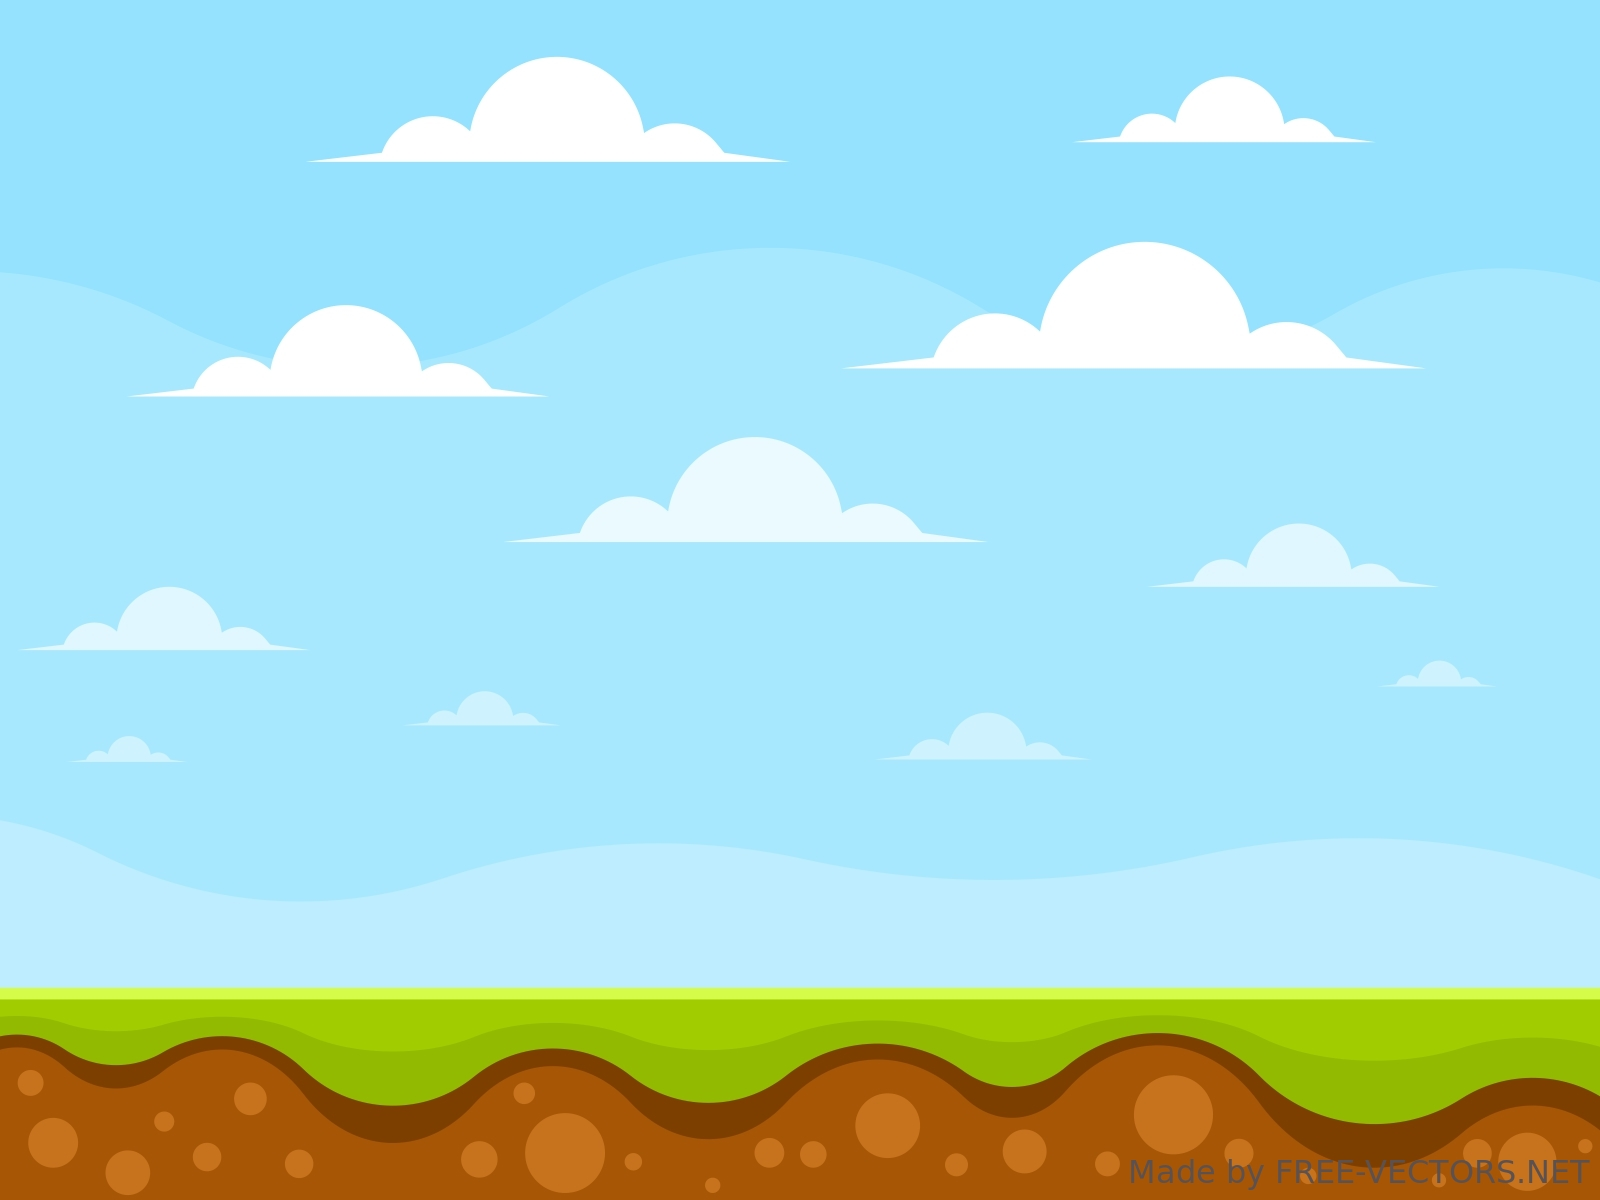
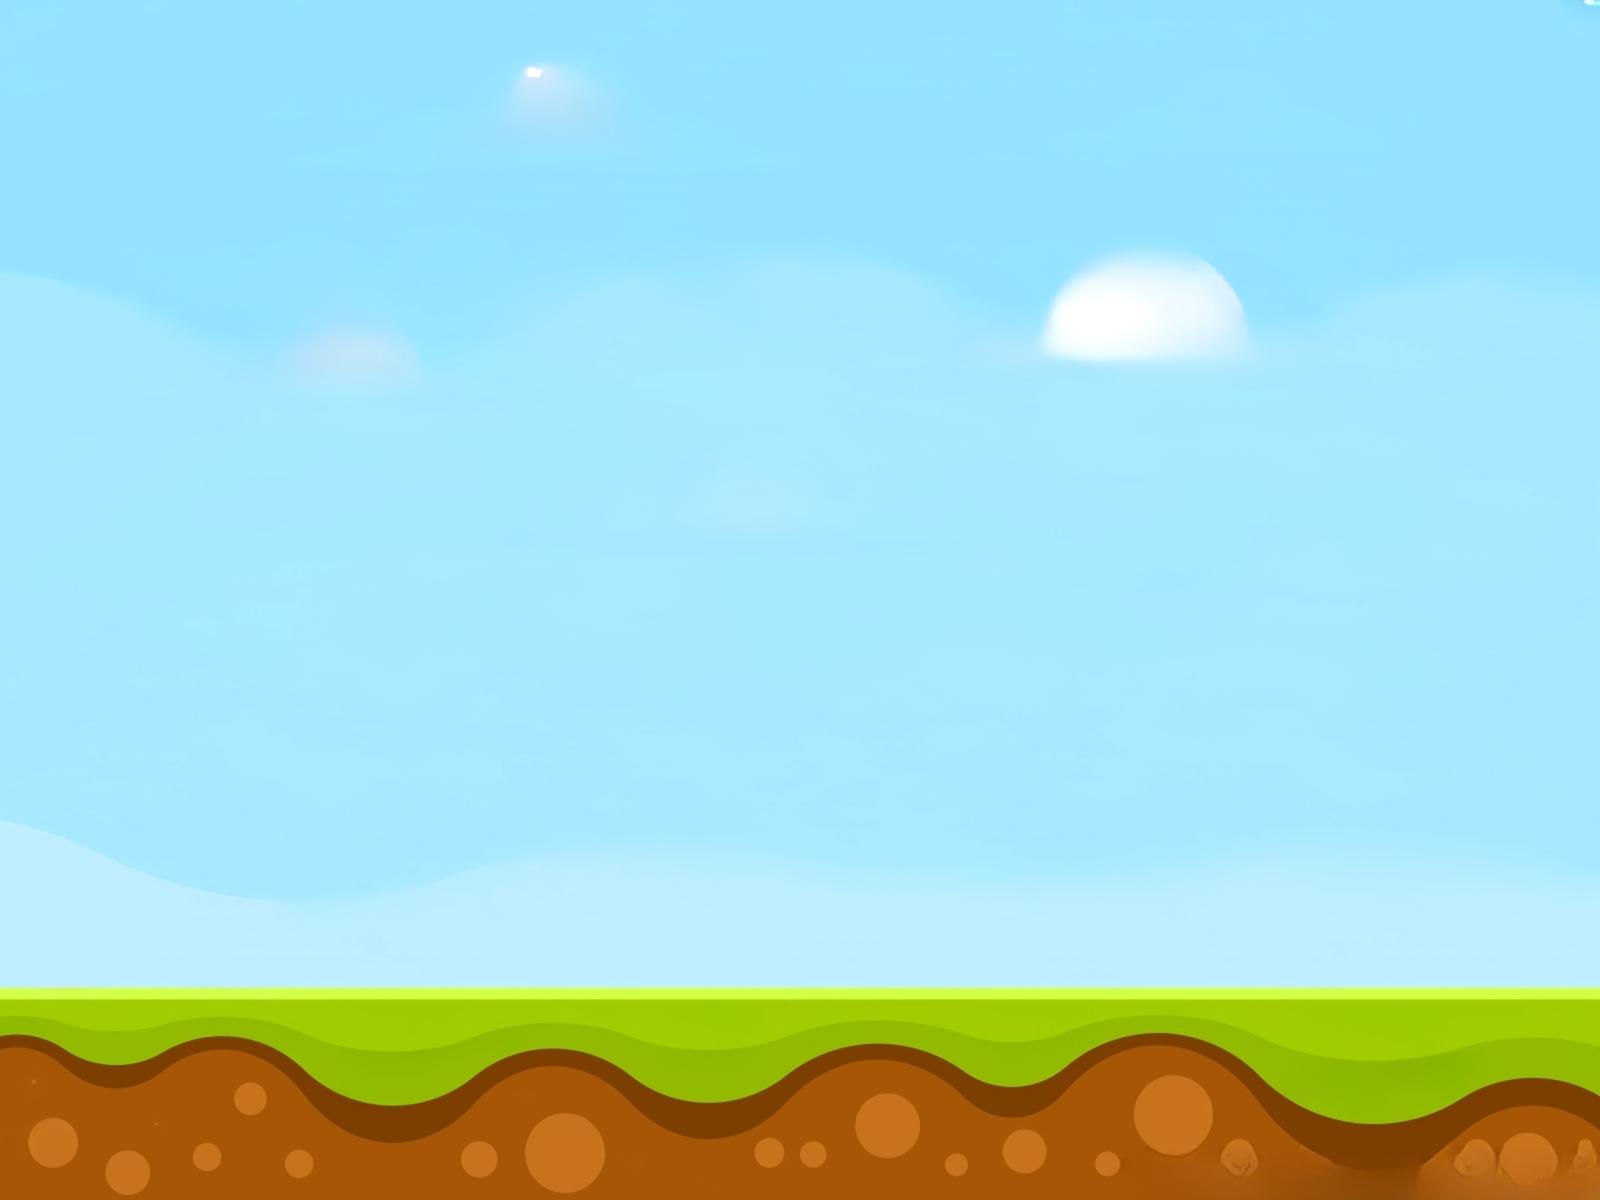
Added Instructions/End window states and score/highScore logic
* Added Instruction/End windows and score/highScore logic

* PR commit

diff --git a/src/Game.java b/src/Game.java
@@ -12,6 +12,8 @@ public class Game implements KeyListener, ActionListener {
     private ArrayList<Acorn> projectiles;
     private int gameState;
     private int score;
+    private int scoreTimer;
+    private int highScore;
     private static final int SLEEP_TIME = 10;
     private boolean isGameOver;
     private int obstacleSpawnTimer;
@@ -49,6 +51,14 @@ public class Game implements KeyListener, ActionListener {
         this.gameState = gameState;
     }
 
+    public int getScore() {
+        return score;
+    }
+
+    public int getHighScore() {
+        return highScore;
+    }
+
     public ArrayList<Obstacle> getObstacles() {
         return obstacles;
     }
@@ -58,14 +68,28 @@ public class Game implements KeyListener, ActionListener {
     }
 
     public int getRandomSpawnTime() {
-        // Obstacle spawns every 1.5 to 3 seconds randomly
-        return 150 + (int)(Math.random() * 151);
+        // TODO: have spawn time gradually increase as the game goes on to increase difficulty
+        // Obstacle spawns every 1 to 2 seconds randomly
+        return 100 + (int)(Math.random() * 101);
     }
 
     public void actionPerformed(ActionEvent e) {
-        // TODO
-        player.move();
+        if (gameState == STATE_MAIN_GROUND) {
+            actionPerformedGround();
+        } else if (gameState == STATE_MAIN_FLYING) {
+            // TODO: Implement flying state
+        }
+        window.repaint();
+    }
 
+    public void actionPerformedGround() {
+        player.move();
+        scoreTimer++;
+        // Increment score every 0.1 seconds
+        if (scoreTimer >= 10) {
+            score++;
+            scoreTimer = 0;
+        }
         obstacleSpawnTimer++;
         if (obstacleSpawnTimer >= nextObstacleSpawnTime) {
             spawnObstacle();
@@ -80,7 +104,6 @@ public class Game implements KeyListener, ActionListener {
                 // Account for the fact that removing an element would skip over an index
                 i--;
             }
-            checkGameOver();
         }
 
         for (int i = 0; i < projectiles.size(); i++){
@@ -91,7 +114,7 @@ public class Game implements KeyListener, ActionListener {
                 i--;
             }
         }
-        window.repaint();
+        checkGameOver();
     }
 
     // Return player
@@ -100,21 +123,32 @@ public class Game implements KeyListener, ActionListener {
     }
     // Jump button
     public void keyPressed(KeyEvent e){
-        switch(e.getKeyCode()){
-            case KeyEvent.VK_UP:
-                player.jump();
-                window.repaint();
-                break;
+        if (gameState == STATE_INSTR) {
+            if (e.getKeyCode() == KeyEvent.VK_ENTER) {
+                gameState = STATE_MAIN_GROUND;
+            }
+        } else if (gameState == STATE_MAIN_GROUND) {
+            switch (e.getKeyCode()) {
+                case KeyEvent.VK_UP:
+                    player.jump();
+                    window.repaint();
+                    break;
 
-            case KeyEvent.VK_DOWN:
-                player.duck();
-                window.repaint();
-                break;
+                case KeyEvent.VK_DOWN:
+                    player.duck();
+                    window.repaint();
+                    break;
 
-            case KeyEvent.VK_SPACE:
-                projectiles.add(player.fireAcorn());
-                window.repaint();
-                break;
+                case KeyEvent.VK_SPACE:
+                    projectiles.add(player.fireAcorn());
+                    window.repaint();
+                    break;
+            }
+        } else if (gameState == STATE_END) {
+            if (e.getKeyCode() == KeyEvent.VK_R) {
+                // NOTE: restartGame() isn't completely done yet
+                restartGame();
+            }
         }
         window.repaint();
     }
@@ -129,10 +163,18 @@ public class Game implements KeyListener, ActionListener {
     }
 
     public void keyTyped(KeyEvent e){
-
+        // TODO: remove if unused
     }
     public void restartGame() {
-        // TODO
+        // TODO: Complete once highScore and score logic implemented
+        player = new Player(window);
+        obstacles.clear();
+        projectiles.clear();
+        score = 0;
+        scoreTimer = 0;
+        obstacleSpawnTimer = 0;
+        nextObstacleSpawnTime = getRandomSpawnTime();
+        gameState = STATE_MAIN_GROUND;
     }
 
     public boolean checkCollisions() {
@@ -146,8 +188,7 @@ public class Game implements KeyListener, ActionListener {
     }
 
     public void play() {
-        // TODO
-        gameState = STATE_MAIN_GROUND;
+        gameState = STATE_INSTR;
         window.repaint();
     }
 
@@ -156,8 +197,10 @@ public class Game implements KeyListener, ActionListener {
     }
 
     public void checkGameOver() {
-        // TODO
         if (checkCollisions()) {
+            if (score > highScore) {
+                highScore = score;
+            }
             gameState = STATE_END;
         }
     }

diff --git a/src/GameView.java b/src/GameView.java
@@ -2,7 +2,6 @@ import javax.swing.*;
 import java.awt.*;
 import java.awt.event.KeyEvent;
 import java.awt.image.BufferStrategy;
-import java.util.ArrayList;
 
 public class GameView extends JFrame{
     private Game backend;
@@ -29,16 +28,28 @@ public class GameView extends JFrame{
     }
 
     public void drawInstructions(Graphics g) {
-        // TODO
+        // TODO: If time permits, replace instructions window with one designed on Canva
+        g.setColor(Color.WHITE);
+        g.fillRect(0, 0 , WINDOW_WIDTH, WINDOW_HEIGHT);
+        g.setColor(Color.BLACK);
+        g.setFont(new Font("Arial", Font.BOLD, 48));
+        g.drawString("SQUIRREL GAME", 400, 250);
+        g.setFont(new Font("Arial", Font.PLAIN, 28));
+        g.drawString("Press ENTER to start", 450, 350);
+        g.drawString("UP = jump", 500, 400);
+        g.drawString("DOWN = duck", 500, 440);
+        g.drawString("SPACE = fire acorn", 500, 480);
     }
 
-    public void drawBackground(Graphics g) {
-        // TODO
+    public void drawBackgroundPlatform(Graphics g) {
         g.drawImage(background, 0, 0, WINDOW_WIDTH, WINDOW_HEIGHT, this);
     }
 
     public void drawScore(Graphics g) {
-        // TODO
+        g.setColor(Color.BLACK);
+        g.setFont(new Font("Arial", Font.BOLD, 28));
+        g.drawString("Score: " + backend.getScore(), 30, 55);
+        g.drawString("High Score: " + backend.getHighScore(), 30, 85);
     }
 
     public void keyTyped(KeyEvent e) {
@@ -54,7 +65,15 @@ public class GameView extends JFrame{
     }
 
     public void drawGameOver(Graphics g) {
-        // TODO
+        // TODO: If time permits, replace instructions window with one designed on Canv
+        g.setColor(Color.WHITE);
+        g.fillRect(0, 0, WINDOW_WIDTH, WINDOW_HEIGHT);
+
+        g.setColor(Color.BLACK);
+        g.setFont(new Font("Arial", Font.BOLD, 52));
+        g.drawString("GAME OVER", 430, 320);
+        g.setFont(new Font("Arial", Font.PLAIN, 28));
+        g.drawString("Press R to restart", 470, 390);
     }
 
     public void paint(Graphics g) {
@@ -74,28 +93,25 @@ public class GameView extends JFrame{
     }
 
     public void myPaint(Graphics g) {
-        // TODO
-
-
-        if (backend.getGameState() == Game.STATE_MAIN_GROUND) {
-            drawBackground(g);
+        if (backend.getGameState() == Game.STATE_INSTR) {
+            drawInstructions(g);
+        } else if (backend.getGameState() == Game.STATE_MAIN_GROUND) {
+            drawBackgroundPlatform(g);
+            drawScore(g);
             // Draw Obstacles
             for (int i = 0; i < backend.getObstacles().size(); i++) {
                 backend.getObstacles().get(i).draw(g);
             }
-
             // Draw acorns
             for (int i = 0; i < backend.getAcorns().size(); i++){
                 backend.getAcorns().get(i).draw(g);
             }
-
             // Draw Player
-            g.setColor(Color.WHITE);
-//            g.fillRect(0,  0, WINDOW_WIDTH, WINDOW_HEIGHT);
             backend.getPlayer().draw(g);
+        } else if (backend.getGameState() == Game.STATE_MAIN_FLYING) {
+            // TODO: Implement flying state
         } else if (backend.getGameState() == Game.STATE_END) {
-            g.setColor(Color.WHITE);
-            g.fillRect(0, 0, WINDOW_WIDTH, WINDOW_HEIGHT);
+            drawGameOver(g);
         }
 
     }

diff --git a/src/Player.java b/src/Player.java
@@ -10,8 +10,6 @@ public class Player {
     private int viewWidth;
     private int viewHeight;
     private int height;
-    private int score;
-    private int highScore;
     private boolean isFlying;
     private Image image;
     private double gravity = 0.25;
@@ -106,18 +104,6 @@ public class Player {
 
     public int getHEIGHT() {
         return HEIGHT;
-    }
-
-    public int getScore() {
-        return score;
-    }
-
-    public int getHighScore() {
-        return highScore;
-    }
-
-    public void updateHighScore(int highScore) {
-        this.highScore = highScore;
     }
 
     public void draw(Graphics g) {
